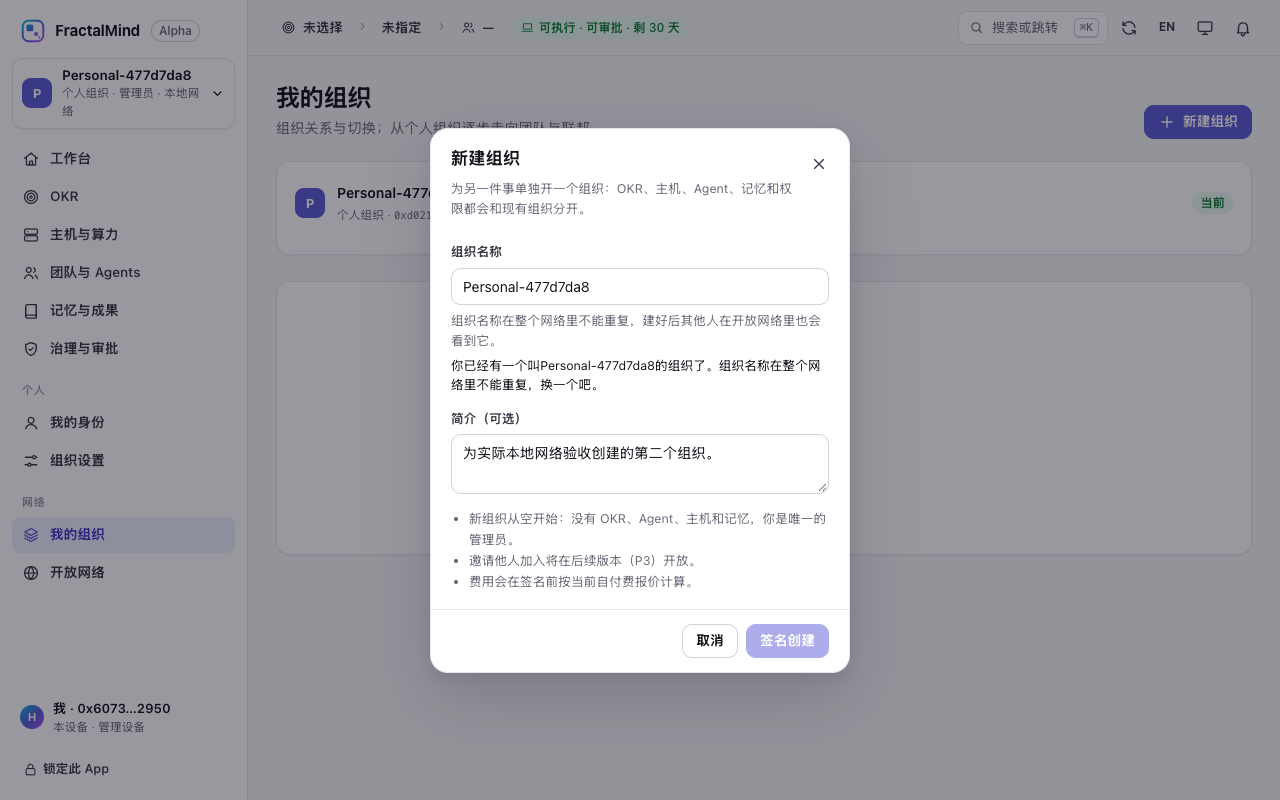
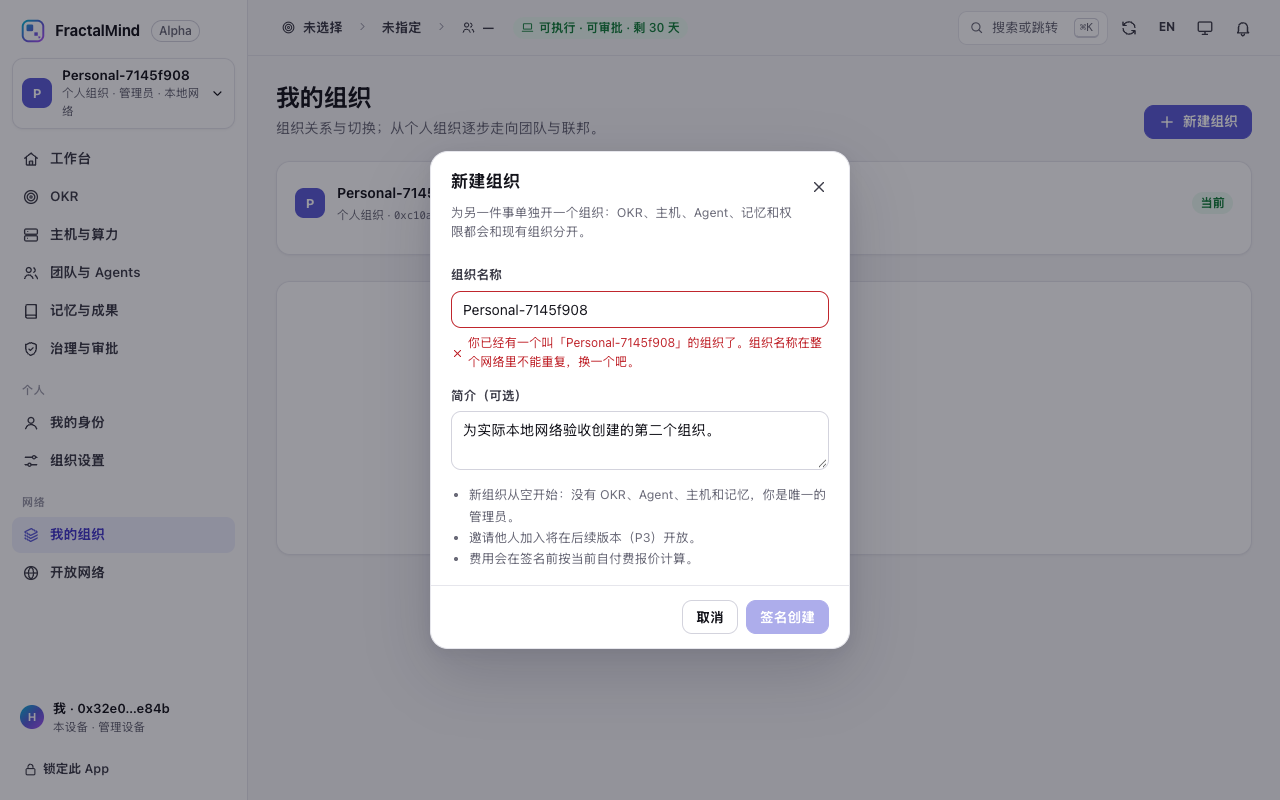
fix(app): refine organization name conflict state

diff --git a/apps/fractalmind-app/src/v2/OrganizationCreate.tsx b/apps/fractalmind-app/src/v2/OrganizationCreate.tsx
@@ -145,12 +145,16 @@ export function OrganizationCreateDialog({ onClose }: { onClose: () => void }) {
   const nameTakenText =
     activeNameCheck?.state === "taken" && activeNameCheck.own
       ? t(
-          `你已经有一个叫${activeNameCheck.name}的组织了。组织名称在整个网络里不能重复，换一个吧。`,
-          `You already have an organization named ${activeNameCheck.name}. Organization names are unique across the network; choose another one.`,
+          `你已经有一个叫「${activeNameCheck.name}」的组织了。组织名称在整个网络里不能重复，换一个吧。`,
+          `You already have an organization named “${activeNameCheck.name}”. Organization names are unique across the network; choose another one.`,
         )
       : text("organization_name_taken");
-  const nameFailureText =
-    failure === "organization_name_taken" ? nameTakenText : failure ? text(failure) : null;
+  const nameFieldError =
+    activeNameCheck?.state === "taken" || failure === "organization_name_taken"
+      ? nameTakenText
+      : null;
+  const nonNameFailureText =
+    failure && failure !== "organization_name_taken" ? text(failure) : null;
   const failureCode = (error: unknown) =>
     error instanceof NativeDeviceError
       ? error.code
@@ -443,16 +447,16 @@ export function OrganizationCreateDialog({ onClose }: { onClose: () => void }) {
         </>
       }
     >
-      {nameFailureText && <div className="note warn" role="alert"><Icon name="alert" /><div>{nameFailureText}</div></div>}
+      {nonNameFailureText && <div className="note warn" role="alert"><Icon name="alert" /><div>{nonNameFailureText}</div></div>}
       {outcome?.status === "unknown" && <div className="note warn"><Icon name="help" /><div>{t("结果未知：只会查询原交易，不会重放或再次提交。", "Result unknown: only the original transaction will be queried; it will not be replayed or submitted again.")}</div></div>}
       <div className="field">
         <label htmlFor="organization-name">{t("组织名称", "Name")}</label>
-        <input ref={nameInput} id="organization-name" className="input" value={name} disabled={busy || phase === "ready"} onChange={(event) => setName(event.target.value)} placeholder={t("例如：家里的事、Meeru Labs", "e.g. Family, Meeru Labs")} />
-        {!validation.ok && name && <div className="err small">{text(validation.code)}</div>}
-        {validation.ok && <div className="small muted">{t("组织名称在整个网络里不能重复，建好后其他人在开放网络里也会看到它。", "Organization names are unique across the network. Other people will be able to see this one on the open network after it is created.")}</div>}
-        {activeNameCheck?.state === "checking" && <div className="small muted">{t("正在查这个名字…", "Checking this name…")}</div>}
-        {activeNameCheck?.state === "taken" && <div className="err small">{nameTakenText}</div>}
-        {activeNameCheck?.state === "unavailable" && <div className="small muted">{t("暂时查不到这个名字有没有被占用，签名后如果重名会失败，手续费不退。", "The name cannot be checked right now. If it is taken, signing can fail and the fee is not refunded.")}</div>}
+        <input ref={nameInput} id="organization-name" className={`input${nameFieldError ? " err" : ""}`} value={name} disabled={busy || phase === "ready"} onChange={(event) => setName(event.target.value)} placeholder={t("例如：家里的事、Meeru Labs", "e.g. Family, Meeru Labs")} />
+        {!validation.ok && name && <div className="err-t"><Icon name="x" size="xs" />{text(validation.code)}</div>}
+        {validation.ok && !nameFieldError && <div className="small muted">{t("组织名称在整个网络里不能重复，建好后其他人在开放网络里也会看到它。", "Organization names are unique across the network. Other people will be able to see this one on the open network after it is created.")}</div>}
+        {!nameFieldError && activeNameCheck?.state === "checking" && <div className="small muted">{t("正在查这个名字…", "Checking this name…")}</div>}
+        {nameFieldError && <div className="err-t" role="alert"><Icon name="x" size="xs" />{nameFieldError}</div>}
+        {!nameFieldError && activeNameCheck?.state === "unavailable" && <div className="small muted">{t("暂时查不到这个名字有没有被占用，签名后如果重名会失败，手续费不退。", "The name cannot be checked right now. If it is taken, signing can fail and the fee is not refunded.")}</div>}
       </div>
       <div className="field">
         <label htmlFor="organization-description">{t("简介（可选）", "Description (optional)")}</label>
